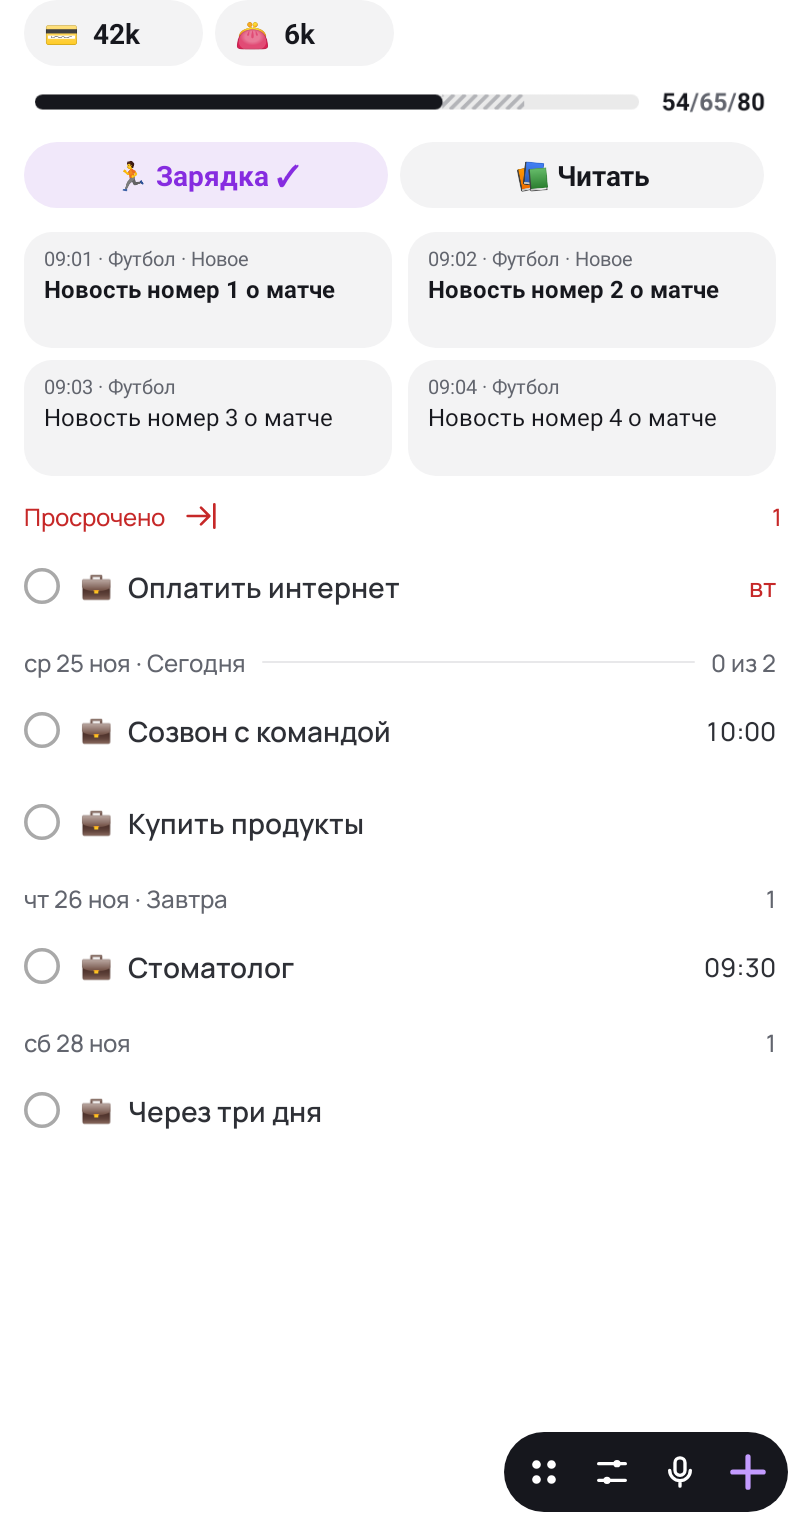
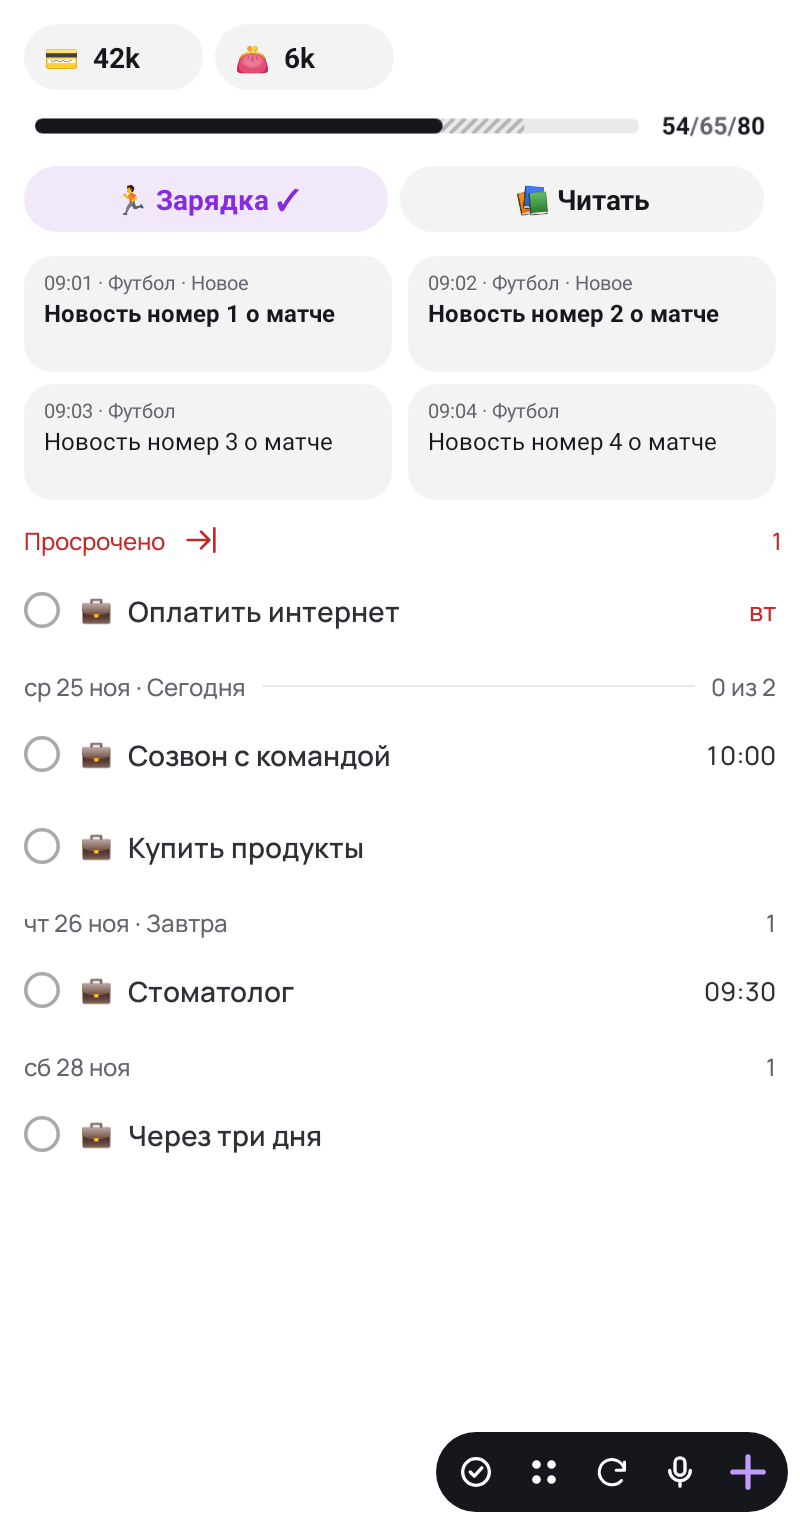
#352: виджет «Главная» — отступ сверху, градиент, значок приложения и «Обновить»; 0.101.0
Claude-Session: https://claude.ai/code/session_019jJJH8rKyfX5gCn8Qf3pcD

diff --git a/app/src/main/java/com/prostovasei/simpletasks/widget/TasksWidget.kt b/app/src/main/java/com/prostovasei/simpletasks/widget/TasksWidget.kt
@@ -510,8 +510,16 @@ internal fun BottomBar(model: WidgetModel, appWidgetId: Int, imageButtons: Boole
                 .padding(SizeTokens.NAV_PAD.dp),
             verticalAlignment = Alignment.CenterVertically,
         ) {
+            // #352 (выбор PM): в «Главной» первой — значок приложения (хаб приложения), вместо настроек — «Обновить».
+            val hub = module == WidgetModule.HUB
+            if (hub) NavButton(R.drawable.ic_nav_app, context.getString(R.string.widget_open_app),
+                actionStartActivity(Intent(context, com.prostovasei.simpletasks.MainActivity::class.java)
+                    .putExtra(com.prostovasei.simpletasks.MainActivity.EXTRA_OPEN_HUB, true)
+                    .addFlags(Intent.FLAG_ACTIVITY_NEW_TASK or Intent.FLAG_ACTIVITY_CLEAR_TOP)))
             NavButton(R.drawable.ic_nav_grid, context.getString(R.string.nav_sections), actionStartActivity(widgetSectionsIntent(context, appWidgetId)))
-            NavButton(R.drawable.ic_nav_sliders, context.getString(R.string.settings_title),
+            if (hub) NavButton(R.drawable.ic_news_refresh, context.getString(R.string.widget_refresh),
+                actionSendBroadcast(WidgetActions.refreshNews(context, appWidgetId)))
+            else NavButton(R.drawable.ic_nav_sliders, context.getString(R.string.settings_title),
                 actionStartActivity(Intent(context, com.prostovasei.simpletasks.MainActivity::class.java)
                     .putExtra(com.prostovasei.simpletasks.MainActivity.EXTRA_OPEN_SETTINGS, true)
                     .addFlags(Intent.FLAG_ACTIVITY_NEW_TASK or Intent.FLAG_ACTIVITY_CLEAR_TOP)))

diff --git a/app/src/main/java/com/prostovasei/simpletasks/ui/navigation/AppNavHost.kt b/app/src/main/java/com/prostovasei/simpletasks/ui/navigation/AppNavHost.kt
@@ -245,7 +245,7 @@ fun AppNavHost(
     LaunchedEffect(openRoute) {
         openRoute ?: return@LaunchedEffect
         // Покупка из уведомления банка (#233) открывается ниже, когда готова модель финансов.
-        if (openRoute is OpenBankPurchase || openRoute is OpenBankQueue || openRoute is OpenBudget || openRoute is OpenHealthWeight || openRoute is OpenNews || openRoute is HabitsDestination || openRoute is OpenHabitAdd) return@LaunchedEffect
+        if (openRoute is OpenBankPurchase || openRoute is OpenBankQueue || openRoute is OpenBudget || openRoute is OpenHealthWeight || openRoute is OpenNews || openRoute is HabitsDestination || openRoute is OpenHabitAdd || openRoute is HubDestination) return@LaunchedEffect
         navController.currentBackStackEntryFlow.first()
         navController.navigate(openRoute) { launchSingleTop = true }
         onRouteOpened()
@@ -285,6 +285,12 @@ fun AppNavHost(
         navController.currentBackStackEntryFlow.first()
         navController.openRoot(HabitsDestination, restore = true)
         if (openRoute is OpenHabitAdd) habitsModel.onIntent(com.prostovasei.simpletasks.ui.feature.habits.HabitsIntent.Add)
+        onRouteOpened()
+    }
+    LaunchedEffect(openRoute) {
+        if (openRoute !is HubDestination) return@LaunchedEffect
+        navController.currentBackStackEntryFlow.first()
+        navController.openRoot(HubDestination, restore = false)
         onRouteOpened()
     }
     LaunchedEffect(openRoute) {

diff --git a/app/src/main/java/com/prostovasei/simpletasks/MainActivity.kt b/app/src/main/java/com/prostovasei/simpletasks/MainActivity.kt
@@ -76,6 +76,8 @@ class MainActivity : ComponentActivity() {
             intent.getStringExtra(EXTRA_BUDGET_MONTH) != null -> com.prostovasei.simpletasks.ui.navigation.OpenBudget(
                 checkNotNull(intent.getStringExtra(EXTRA_BUDGET_MONTH)), intent.getBooleanExtra(EXTRA_BUDGET_PREPARE, false),
             )
+            // #352: значок приложения в панели виджета «Главная» — хаб приложения.
+            intent.getBooleanExtra(EXTRA_OPEN_HUB, false) -> com.prostovasei.simpletasks.ui.navigation.HubDestination
             intent.getBooleanExtra(EXTRA_OPEN_NEWS, false) -> com.prostovasei.simpletasks.ui.navigation.OpenNews
             // #340: напоминание о привычках и раздел «Привычки» в виджете.
             intent.getBooleanExtra(EXTRA_ADD_HABIT, false) -> com.prostovasei.simpletasks.ui.navigation.OpenHabitAdd
@@ -103,6 +105,7 @@ class MainActivity : ComponentActivity() {
         const val EXTRA_OPEN_HABITS = "open_habits"
         const val EXTRA_ADD_HABIT = "add_habit"
         const val EXTRA_OPEN_SETTINGS = "open_settings"
+        const val EXTRA_OPEN_HUB = "open_hub"
         const val EXTRA_OPEN_DATE = "open_date"
         const val EXTRA_SNOOZE_TASK = "snooze_task_id"
         const val EXTRA_OPEN_DAY = "open_day"

diff --git a/app/src/test/java/com/prostovasei/simpletasks/widget/WidgetRendererTest.kt b/app/src/test/java/com/prostovasei/simpletasks/widget/WidgetRendererTest.kt
@@ -185,7 +185,10 @@ class WidgetRendererTest {
             }
             fun clickable(view: View) = generateSequence(view) { it.parent as? View }.take(3).any { it.hasOnClickListeners() }
             val add = "Добавить"
-            listOf("Разделы", "Настройки", "Создать задачу голосом", add).forEach { assertTrue("$module $it", clickable(find(it))) }
+            // #352: в «Главной» — «Открыть приложение» и «Обновить» вместо «Настроек».
+            val labels = if (module == WidgetModule.HUB) listOf("Открыть приложение", "Разделы", "Обновить", "Создать задачу голосом", add)
+            else listOf("Разделы", "Настройки", "Создать задачу голосом", add)
+            labels.forEach { assertTrue("$module $it", clickable(find(it))) }
             val plus = find(add)
             val right = generateSequence(plus) { it.parent as? View }.sumOf { it.left } + plus.width
             assertTrue("$module: капсула у правого края", width - right <= ((SizeTokens.WIDGET_EDGE + SizeTokens.NAV_PAD + 1) * density).toInt())

diff --git a/app/src/main/java/com/prostovasei/simpletasks/widget/WidgetModel.kt b/app/src/main/java/com/prostovasei/simpletasks/widget/WidgetModel.kt
@@ -98,7 +98,8 @@ fun WidgetModel.entries(): List<WidgetEntry> {
     val shown = days.filter { it.items.isNotEmpty() }
     // #344: в «Все» прошедшие дни только из выполненных (разы повторов) не показываются вовсе — ни задач, ни «Просрочено».
     val doneOnly = if (filter == WidgetFilter.All) pastDays.filter { block -> block.items.all { it.isDone } }.toSet() else emptySet()
-    val visible = shown.filter { it !in doneOnly }
+    // #352: в «Все» и любой другой день, где всё выполнено, без подписи — выполненные там не показываются (#342).
+    val visible = shown.filter { it !in doneOnly && !(filter == WidgetFilter.All && it.items.all { item -> item.isDone }) }
     val past = pastDays.takeIf { filter == WidgetFilter.All }.orEmpty().filter { it !in doneOnly }
     if (past.isEmpty()) return visible.map { WidgetEntry.Day(it) }
     return visible.flatMap { block ->

diff --git a/app/src/main/java/com/prostovasei/simpletasks/ui/feature/hub/HubScreen.kt b/app/src/main/java/com/prostovasei/simpletasks/ui/feature/hub/HubScreen.kt
@@ -261,7 +261,8 @@ private fun HubTasks(state: HubState, onIntent: (TaskListIntent) -> Unit, onOpen
         .asPaddingValues().let { androidx.compose.foundation.layout.PaddingValues(bottom = it.calculateBottomPadding() + SizeTokens.NAV_BAR_SPACE.dp) }) {
         groups.forEachIndexed { index, (date, items, late) ->
             // #344: «Просрочено» только из выполненных — без подписи.
-            if (items.isEmpty() || (late && items.none { !it.isDone || it.isCompleting })) return@forEachIndexed
+            // #352: и день, где всё выполнено, — без подписи.
+            if (items.isEmpty() || items.none { !it.isDone || it.isCompleting }) return@forEachIndexed
             // #334: подписи как в «Предстоящем» — «Просрочено» красным с числом справа, дни 12 sp серым с полосой у «Сегодня».
             item("hub-group-$index") {
                 if (date == null) {

diff --git a/app/src/main/java/com/prostovasei/simpletasks/widget/WidgetActions.kt b/app/src/main/java/com/prostovasei/simpletasks/widget/WidgetActions.kt
@@ -65,8 +65,11 @@ class WidgetActionReceiver : BroadcastReceiver() {
             when (intent.action) {
                 WidgetActions.REFRESH_NEWS -> {
                     val id = intent.getIntExtra(WidgetActions.EXTRA_WIDGET_ID, -1)
-                    if (id in WidgetRenderer.widgetIds(context) && WidgetSelection.module(context, id) == WidgetModule.NEWS) {
+                    val module = WidgetSelection.module(context, id)
+                    if (id in WidgetRenderer.widgetIds(context) && (module == WidgetModule.NEWS || module == WidgetModule.HUB)) {
+                        // #352: «Обновить» в «Главной» — новости из сети и перерисовка (финансы и задачи читаются заново).
                         WidgetRenderer.refreshNews(context)
+                        if (module == WidgetModule.HUB) WidgetRenderer.render(context, id, "обновить")
                     }
                 }
                 WidgetActions.TOGGLE_HABIT -> {

diff --git a/app/src/main/java/com/prostovasei/simpletasks/ui/feature/all/AllScreen.kt b/app/src/main/java/com/prostovasei/simpletasks/ui/feature/all/AllScreen.kt
@@ -113,7 +113,8 @@ fun AllScreen(
                         )
                     }
                 }
-                dayGroups.forEach { group ->
+                // #352: день, где всё выполнено, без подписи — как в виджете.
+                dayGroups.filter { g -> g.items.any { !it.isDone || it.isCompleting } }.forEach { group ->
                     item(key = "day-${group.date}") {
                         DayHeader(
                             text = WidgetDates.header(group.date),

diff --git a/docs/ARCHITECTURE.md b/docs/ARCHITECTURE.md
@@ -1767,6 +1767,10 @@ Compose и RemoteViews используют общие сокращения ме
 
 `VoiceSheet` ставит карточку как `TaskSheet`: `rememberKeyboardHeight` (запасные 40 % высоты), отступ снизу = max(клавиатура, ime, навигация) + 8 dp, высота `SizeTokens.VOICE_HEIGHT` = 212 dp. Внизу `Tide` — `Canvas` с тремя слоями-синусоидами на `VOICE_TIDE_PERCENT` высоты; цвета `ColorTokens.voiceTide` / `voiceCalm` смешиваются по анимированному признаку записи (0,6 с), подъём — громкость × `VOICE_TIDE_RISE`. Фаза волн — свои часы `tidePhase` на `withInfiniteAnimationFrameNanos`: на паузе волны замедляются вместе с переходом в серый и замирают на месте, после ⏺ продолжают с той же фазы (без рывка к началу); кадры идут только пока вода движется и при включённых анимациях системы. `withInfiniteAnimationFrameNanos`, а не `withFrameNanos` — иначе тесты Compose не дожидаются покоя. Карточка гасит нажатия через `pointerInput`, без `clickable` (не лишняя кнопка для TalkBack); ошибка — `liveRegion`, «●» озвучивается словами. Кнопки — `SheetButton` 50 dp (⏸/⏺ `ic_voice_pause`/`ic_voice_record`, галочка `ic_voice_check`); ошибка — `errorText` между ними, у `NO_PERMISSION` текст ведёт в настройки (`onSettings`). `blocking()` — нет доступа, недоступно, нет языка: ⏺ неактивна. Логика `VoiceRoute`/`VoiceState`/движка (#299, #302) не менялась. Старые токены микрофона (`VOICE_MIC`, `VOICE_GLOW`…) и строки подписей удалены.
 
+### 4.127. Виджет «Главная»: отступ, градиент, панель (#352, 0.101.0)
+
+`widget_hub_root`: `paddingTop = widget_hub_edge`, над панелью `widget_hub_fade` (FrameLayout, `@drawable/widget_hub_fade`, высота `widget_hub_fade` 40). `BottomBar(module = HUB)`: `ic_nav_app` → `MainActivity.EXTRA_OPEN_HUB` (`HubDestination`, `openRoot`), вместо настроек `ic_news_refresh` → `WidgetActions.refreshNews` (обработчик принимает и HUB, затем `render`). Дни только из выполненных скрыты: `WidgetModel.entries` (фильтр All), `HubTasks`, `AllScreen`.
+
 ### 4.126. Редизайн хаба (#350, 0.100.0)
 
 `HubState.days` — семь пар (дата, задачи) вместо `todayItems/tomorrowItems` (оставлены вычисляемыми), `HUB_DAYS = 7`; `HubViewModel` читает недели `today` и `today + 6`. `HubTasks` выводит «Просрочено» и непустые дни, подписи «Сегодня»/«Завтра» — у первых двух. `timelineItems(inset)` / `TimelineTaskRow(inset)`: в хабе внешнее поле `XXS`, кружок и время в 12 dp от края. Финансы: `HubAccounts` над `LimitBar`, без общей суммы, снизу `HUB_FINANCE_GAP`; поля финансов, привычек и новостей — `spacing.sm`. Виджет: `forHub()` — до `today + 6`; `hubFinance` — счета, затем полоса; `accountRow(large)` — крайние плашки без внешнего поля (`setViewLayoutMargin`, Android 12+); `widget_hub_root` — `widget_hub_edge` 12, `widget_hub_inner` 6, список `widget_hub_list_end` 9.

diff --git a/docs/TESTING-CHECKLIST.md b/docs/TESTING-CHECKLIST.md
@@ -1015,6 +1015,10 @@ FP1–FP8, FW1–FW8, FU1–FU8, FS, FN, FB, W3a и FT остаются непо
 | HC346-2 | Коснуться левого и правого края блока новостей | Страница листается назад и вперёд; середина карточки открывает новость; в приложении работает свайп |
 | HC346-3 | Полоса лимита хаба | «42k» без ₽, штриховка до прогноза и его сумма, лимит внутри справа, отметки «сегодня» и строки под полосой нет |
 | HC346-4 | Прогноз больше лимита | Штриховка до края, сумма прогноза красная у лимита |
+| HW352-1 | Виджет «Главная» | Сверху отступ, снизу список плавно уходит в белое под панелью |
+| HW352-2 | Значок приложения в панели | Открывается приложение на хабе |
+| HW352-3 | «Обновить» в панели | Новости и суммы обновляются |
+| HW352-4 | Выполнить все задачи дня | Подпись дня исчезает (хаб, «Предстоящее», виджет) |
 | HR350-1 | Хаб в приложении и виджете | Счета плашками над полосой, до полосы ~10, общей суммы нет |
 | HR350-2 | Прокрутить задачи хаба | Видны дни недели вперёд (до сегодня + 6), пустые дни не показаны |
 | HR350-3 | Края хаба | Счета, полоса, новости, подписи дней, кружки и время — в одну линию слева и справа (12) |

diff --git a/docs/testing-runs/0.101.0-local.md b/docs/testing-runs/0.101.0-local.md
@@ -1,0 +1,8 @@
+# 0.101.0 — локальная проверка (#352)
+
+26.11.2026, Claude Code. Ветка `claude/hub-widget-polish` от `claude/release-0100`. PM: конструктор, выбор, «Код+проверка+выпуск».
+
+- `./gradlew assembleDebug check recordRoborazziDebug` — успешно; lint и проверка дизайн-токенов прошли. Снимки с датой возвращены.
+- `WidgetRendererTest`: в «Главной» «Открыть приложение» и «Обновить» нажимаются, в других разделах — «Настройки». Снимки хаба обновлены.
+
+Не проверено локально: градиент и переход в хаб на телефоне — HW352.
